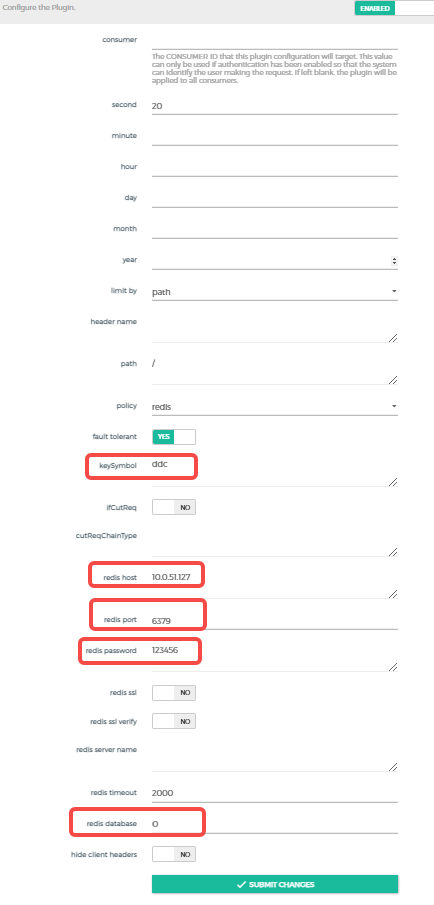
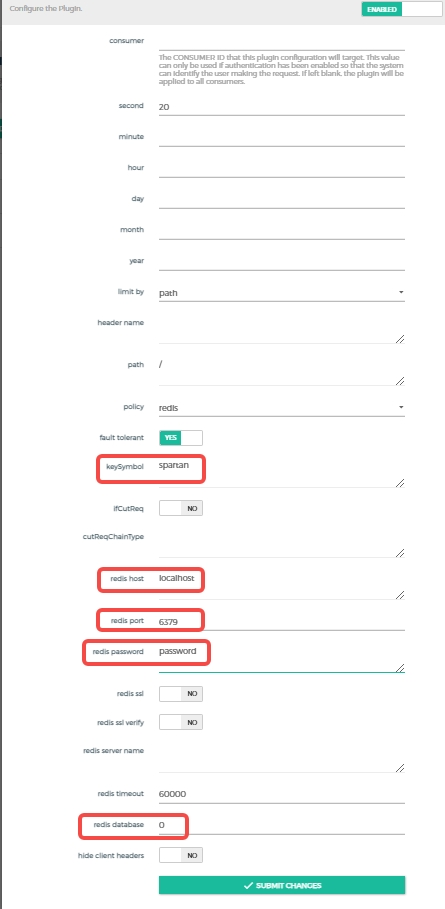
update readme

diff --git a/README.md b/README.md
@@ -88,11 +88,11 @@ Edit `Data-Center-Gateway/super-kong-service/config/config.yaml`:
 
 ```shell
 Redis:
-  redisHost: 10.0.51.127:6379 // redis_IP:Port  Need to be consistent with the plugin configuration below
-  redisPW: "123456"			  // Redis password   Need to be consistent with the plugin configuration below
-  redisDb: 0				  // Redis database  Need to be consistent with the plugin configuration below
-KeySymbol: "ddc"			  // symbol of the Redis storage key，Needs to be consistent with the keySymbol configured in the plugin below
-ServerPort: 18899   		  // microservice API port number
+  redisHost: localhost:6379    // redis_IP:Port  Need to be consistent with the plugin configuration below
+  redisPW: "password"		   // Redis password   Need to be consistent with the plugin configuration below
+  redisDb: 0		           // Redis database  Need to be consistent with the plugin configuration below
+KeySymbol: "spartan"  //symbol of the Redis storage key，Needs to be consistent with the keySymbol configured in the plugin below
+ServerPort: 18899   		   // microservice API port number
 ```
 
 Start the gateway by Docker: 
